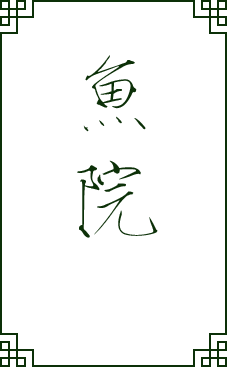
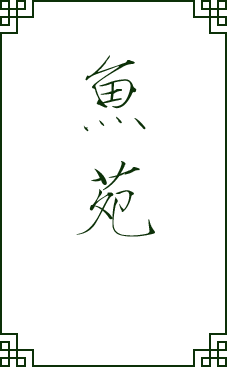
yuyuan

Changed region(s): [[0.3392, 0.4196, 0.7093, 0.6594]]

diff --git a/main/index.html b/main/index.html
@@ -32,7 +32,7 @@
 	<div id="mb"></div><div id="lt"></div><div id="rt"></div>
 	<div id="lb"></div><div id="rb"></div><div id="ltx"></div>
 	<div id="rtx"></div><div id="lbx"></div><div id="rbx"></div><br/><br/>
-	<div class="title" align="center">魚院</div><br>	
+	<div class="title" align="center">魚苑</div><br>	
 	<div id="all" align="center">	
 		<a name="file" href="../group/mypaint/index.html">画页</a><br>
 		<a name="file" href="../group/h5/index.html">设计页</a><br>

diff --git a/index.html b/index.html
@@ -6,7 +6,7 @@
 document.getElementById("meta").content="width=device-width, initial-scale="+window.screen.width/560+",maximum-scale=1, user-scalable=no"; </script>
 <!--link rel="icon" type="image/x-ico" href="main/img/yuer.ico" /-->
 <link rel="stylesheet" href="main/css/style.css" type="text/css" />	
-<title>魚院</title>
+<title>魚苑</title>
 <script src="main/js/jquery-3.3.1.min.js"></script>
 <script src="main/js/vue.min.js"></script>
 <style type="text/css">
